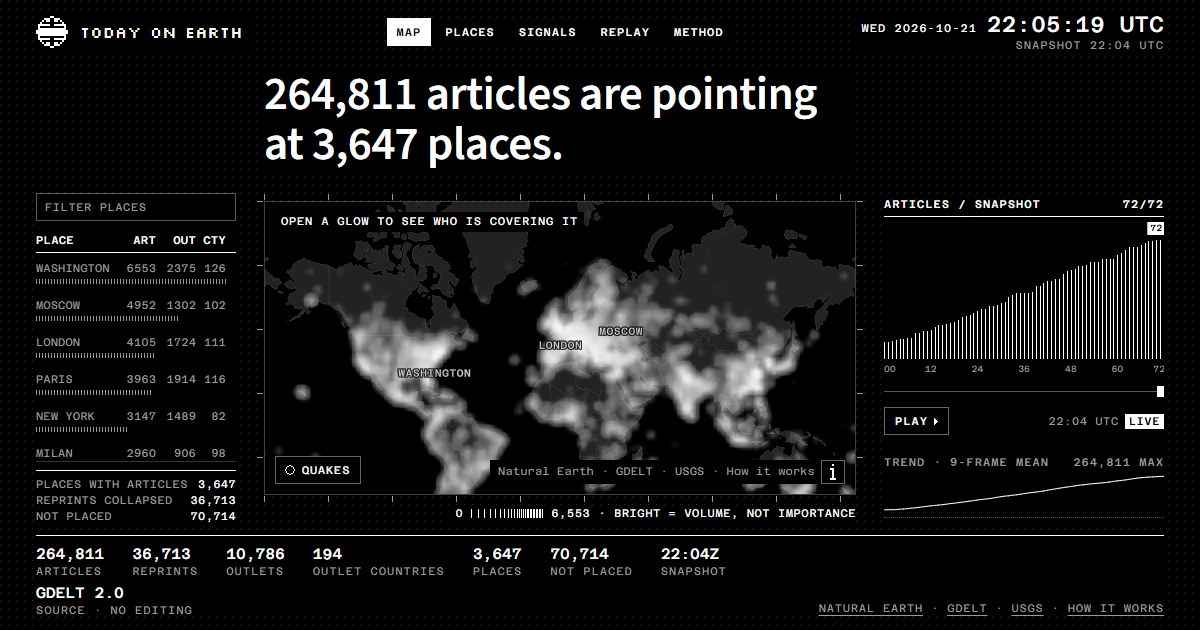
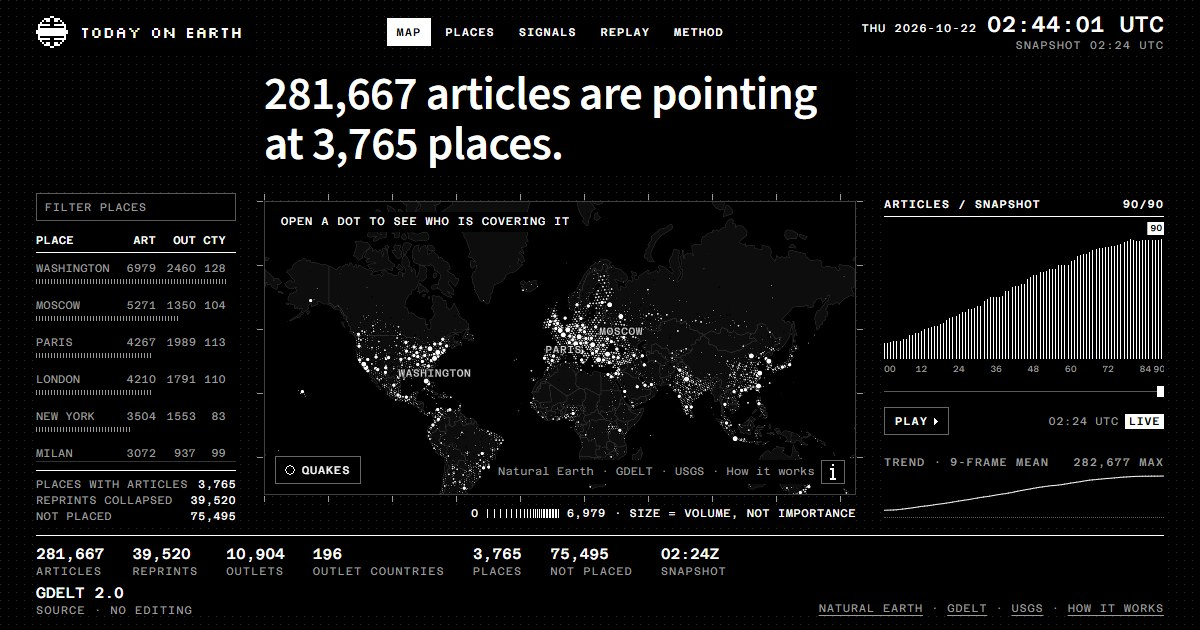
docs: DESIGN.md records the flat-mark rule; og image with the dot matrix

diff --git a/DESIGN.md b/DESIGN.md
@@ -1,6 +1,6 @@
 ---
 name: Today On Earth
-description: A world map that glows white where the news is pointing, recorded as a pure black-and-white data field.
+description: A world map with one flat white dot for every place the news is pointing at, recorded as a pure black-and-white data field.
 colors:
   ink: "#000"
   white: "#fff"
@@ -13,9 +13,9 @@ colors:
   hairline-mid: "rgba(255, 255, 255, 0.35)"
   hairline-strong: "rgba(255, 255, 255, 0.4)"
   map-ocean: "#000000"
-  map-land: "#222222"
-  map-border: "#383838"
-  map-admin: "#404040"
+  map-land: "#0d0d0d"
+  map-border: "#2f2f2f"
+  map-admin: "#3a3a3a"
   map-heat: "#ffffff"
 typography:
   display:
@@ -178,7 +178,7 @@ components:
 
 **Creative North Star: "Datamatics Field"**
 
-The product is a measurement, and the surface is built to look like one. The canvas is pure black with an 8px dot grid in its margins; the only light on the page is the data: the map plate glows white where article volume is high, and every number, label and control is set in a monospaced face at data density. There is no colour anywhere (the amber heat of the previous world was rejected and does not return), no rounded corner, no shadow, no gradient used as decoration, and no eased motion: a state is either on or off, and the whole frame inverts for one painted frame when the map returns to live or replay starts.
+The product is a measurement, and the surface is built to look like one. The canvas is pure black with an 8px dot grid in its margins; the only light on the page is the data: the map plate carries one flat white dot per place, sized by article volume, and every number, label and control is set in a monospaced face at data density. There is no colour anywhere (the amber heat of the previous world was rejected and does not return), no rounded corner, no shadow, no gradient used as decoration, and no eased motion: a state is either on or off, and the whole frame inverts for one painted frame when the map returns to live or replay starts.
 
 Two voices share the page. Azeret Mono carries the chrome: the top line, the ranked places column, the bar field, the panel's count rows, the foot totals, the map labels. Source Sans 3 is reserved for what a person reads as prose: the one large sentence above the map, panel titles, story headlines, the methodology page, and a signal's fixed sentence. Silkscreen appears once, as the wordmark beside the 16x16 one-bit globe. The one-bit pixel observer in the bottom-right corner and the crisp-edged pixel icons (play, pause, close, quake, the attribution "i") are drawn as inline SVG on integer grids, never as icon-font glyphs.
 
@@ -198,7 +198,7 @@ Black, white, and a short ladder of greys for secondary text and strips; chroma 
 
 ### Primary
 - **Ink** (`{colors.ink}`): the ground of every page, panel, band and control. Every text block declares it as a background so the dot grid never crosses a glyph.
-- **White** (`{colors.white}`): the only foreground. Primary text, hairline rules at full strength, the map's heat, selection fills. Active nav items, pressed buttons, the current table row and the LIVE / REPLAY tags invert to black-on-white.
+- **White** (`{colors.white}`): the only foreground. Primary text, hairline rules at full strength, the map's dots, selection fills. Active nav items, pressed buttons, the current table row and the LIVE / REPLAY tags invert to black-on-white.
 
 ### Neutral
 - **Muted** (`{colors.muted}`): readable secondary text (7.0:1 on black): the snapshot line, count labels, recent-frames headers, meta rows, placeholders, attribution, unselected places.
@@ -209,7 +209,7 @@ Black, white, and a short ladder of greys for secondary text and strips; chroma 
 - **Hairline / Hairline Mid / Hairline Strong** (white at 0.18, 0.35, 0.4 alpha): the dot grid; the scrub track and filter borders (0.35); outline-button and chip borders and the story's left rule (0.4). The map frame edge is white at 0.25 and its ticks at 0.6. Hover lifts a 0.4 border to solid white.
 
 ### Map plate
-- **Map Ocean**, **Map Land**, **Map Border**, **Map Admin**, **Map Heat** (`{colors.map-ocean}`, `{colors.map-land}`, `{colors.map-border}`, `{colors.map-admin}`, `{colors.map-heat}`): the only place greys are used as fills. Heat is white at stepped alpha; the mid-pack stays dim so only real peaks reach full white. Base labels are white at 0.8 / 0.56 alpha over a black halo. These constants live in `web/src/map.ts` because MapLibre needs literal colours before any stylesheet applies.
+- **Map Ocean**, **Map Land**, **Map Border**, **Map Admin**, **Map Heat** (`{colors.map-ocean}`, `{colors.map-land}`, `{colors.map-border}`, `{colors.map-admin}`, `{colors.map-heat}`): the only place greys are used as fills. Land is near-black (#0d0d0d) and reads by its coastlines, which are drawn by the same #2f2f2f line as the country borders; admin-1 lines (zoom 3.5 and up) are one step lighter so a thinner line stays visible. Map Heat is the white of every mark: the coverage dots (full white, with the two smallest steps at 0.5 and 0.7 opacity so they read as grey), the quake rings, the selected cell's outline, reticle and tag. Base labels are white at 0.8 / 0.56 alpha over a black halo. These constants live in `web/src/map.ts` because MapLibre needs literal colours before any stylesheet applies.
 
 ### Named Rules
 **The Two-Ink Rule.** Chrome, marks and type use #000 and #fff only. Grey is allowed in exactly two places: the map plate's land and borders, and the text hierarchy's muted steps (#9a9a9a, #777, #5c5c5c, #333). No other grey and no hue may be introduced.
@@ -217,6 +217,8 @@ Black, white, and a short ladder of greys for secondary text and strips; chroma 
 **The Inversion Rule.** Selection, activation and the pressed state are expressed by swapping ink and white (`background: #fff; color: #000`), never by tint, opacity or a second colour. One painted frame of `filter: invert(1)` on the root marks a snapshot change (skipped under reduced motion).
 
 **The Faint-Is-Not-Text Rule.** #5c5c5c appears only on strips, bars and baselines. Text drops no lower than #777.
+
+**The Flat-Mark Rule.** A map mark is a solid white circle with a hard edge (`circle-blur: 0`) and a black hairline around it. Volume is encoded by stepped radius and stepped opacity, never by blur, a heatmap or a glow.
 
 ## Typography
 
@@ -267,7 +269,7 @@ There are no shadows and no tonal layering. Every surface is flat black; nothing
 
 ## Shapes
 
-Every corner is square (`border-radius: 0` is set on buttons, inputs, sliders and MapLibre's attribution button to cancel user-agent rounding). Borders are 1px hairlines in white or white alpha; they are the only outline a control has. Strips are repeated 1px bars (`repeating-linear-gradient`, 1px on / 2px off; 2px on / 1px off when selected). The slider thumb is a 7x11px white rectangle on a 1px track. Bullets on the about page are 10x1px white dashes. Icons and marks are drawn on integer grids with `shape-rendering: crispEdges`: the globe on 16x16, the observer on 12x14, play on 4x7, pause on 5x7, close on 7x7, quakes on 12x12, the attribution "i" on 3x8.
+Every corner is square (`border-radius: 0` is set on buttons, inputs, sliders and MapLibre's attribution button to cancel user-agent rounding). Borders are 1px hairlines in white or white alpha; they are the only outline a control has. Strips are repeated 1px bars (`repeating-linear-gradient`, 1px on / 2px off; 2px on / 1px off when selected). The slider thumb is a 7x11px white rectangle on a 1px track. Bullets on the about page are 10x1px white dashes. On the map every mark is a circle: the coverage dots (five fixed radii), the hollow quake rings, the 3px selected-cell reticle; the selected cell itself is its H3 hexagon as a 1px white outline over a 0.06 white fill. Icons and marks are drawn on integer grids with `shape-rendering: crispEdges`: the globe on 16x16, the observer on 12x14, play on 4x7, pause on 5x7, close on 7x7, quakes on 12x12, the attribution "i" on 3x8.
 
 ## Components
 
@@ -314,6 +316,9 @@ A black dot-grid column (360px in the shell; a fixed 400px right drawer or a 55s
 - **Tooltip:** white block, black text, `4px 6px`, mono 400 11px 0.03em, max-width 260px, the name in 500 uppercase.
 - **Status:** black block at the top-left of the frame, `3px 6px`, mono 400 11px uppercase 0.08em.
 
+### Map marks (coverage dots)
+One flat white circle per place on the `cell-dot` layer, no blur, drawn largest-last by article count. The log-scaled weight `w` (0-1, against a fixed maximum so replay and clip frames share one scale) is quantised into five steps at `MARK_STEPS` 0.2 / 0.4 / 0.6 / 0.8. Each step fixes a radius and an opacity: radii `MARK_RADIUS` 0.6 / 0.85 / 1.25 / 1.9 / 2.6px at zoom 0, multiplied by `MARK_ZOOM_SCALE` (1x at zoom 0, 3.5x at zoom 4, 8x at zoom 9); opacities `MARK_OPACITY` 0.5 / 0.7 / 0.85 / 1 / 1. A black hairline (`circle-stroke`, 0.6px at zoom 0 to 1px at zoom 4) separates neighbours in dense regions. The top radius is held small so a cluster stays a field of separate dots rather than a mass. From `w` 0.4 a place carries a mono 10px uppercase 0.08em white label with a 1.2px black halo (the five largest places are labelled at every zoom). Hit targets are invisible circles 4-30px wide depending on weight and zoom. The under-map legend reads "size = volume, not importance" and the status hint "Open a dot to see who is covering it". Quake rings (opt-in) are hollow white 1px rings at 0.9 opacity, radius by magnitude.
+
 ### Top line and foot
 - **Brand:** 32px pixel globe plus Silkscreen wordmark, 12px gap, on a black block.
 - **Clock:** uppercase date in mono 11px 0.1em, the time at 500 22px, a muted SNAPSHOT line beneath; a REPLAY tag inverts while a past frame is shown.
@@ -335,7 +340,8 @@ A fixed 1080x1920 (or 1920x1080) frame in the same world: black dot-grid bands a
 - **Do** keep controls at least 28px tall (36px on phones) with a 1px border at 0.4 alpha that lifts to solid white on hover.
 - **Do** draw any new icon or mark as crispEdges inline SVG on an integer grid, one colour.
 - **Do** switch state in one step; if motion is unavoidable, make it a stepped change, and honour `prefers-reduced-motion` for the inversion frame.
-- **Do** keep greys to the map plate (#222, #383838, #404040) and the muted text steps (#9a9a9a, #777, #5c5c5c, #333).
+- **Do** keep greys to the map plate (#0d0d0d, #2f2f2f, #3a3a3a) and the muted text steps (#9a9a9a, #777, #5c5c5c, #333).
+- **Do** draw a map mark as a flat white circle with a black hairline, sized and dimmed by the five fixed steps; a new mark type joins the same stepped scale.
 
 ### Don't:
 - **Don't** introduce any hue, including the former amber heat; the palette is black, white and the listed greys.
@@ -345,4 +351,5 @@ A fixed 1080x1920 (or 1920x1080) frame in the same world: black dot-grid bands a
 - **Don't** use `--faint` (#5c5c5c) for text that must be read; it is for strips, bars and baselines only.
 - **Don't** add a card: content is a log of entries separated by hairlines, never a filled box; the 160x96 video tile is the one bordered container and stays 1px-bordered on black.
 - **Don't** use icon fonts, glyph icons or raster icons; the only icons are the pixel SVGs on integer grids.
-- **Don't** let the map's chrome compete with the glow: overlays are small black or white blocks at the frame's inside corners, nothing larger.
+- **Don't** blur, soften or halo a map mark: `circle-blur` is 0, there is no heatmap layer and no glow layer; the only halo on the map is the 1-2px black text halo that keeps labels legible.
+- **Don't** let the map's chrome compete with the dots: overlays are small black or white blocks at the frame's inside corners, nothing larger.
